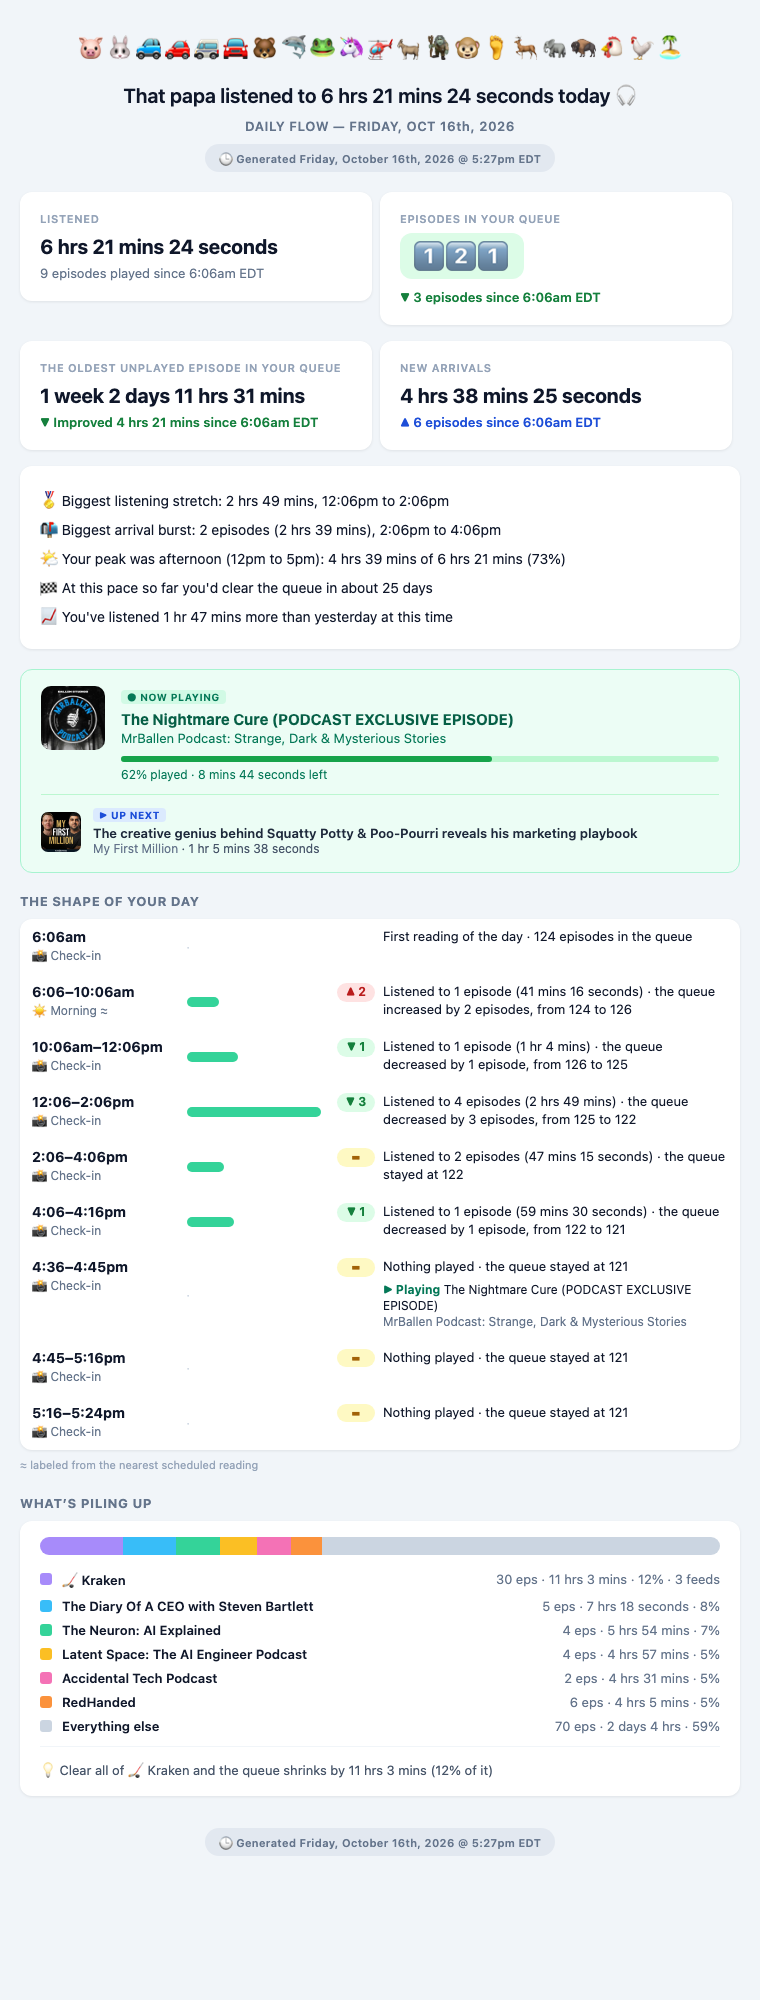
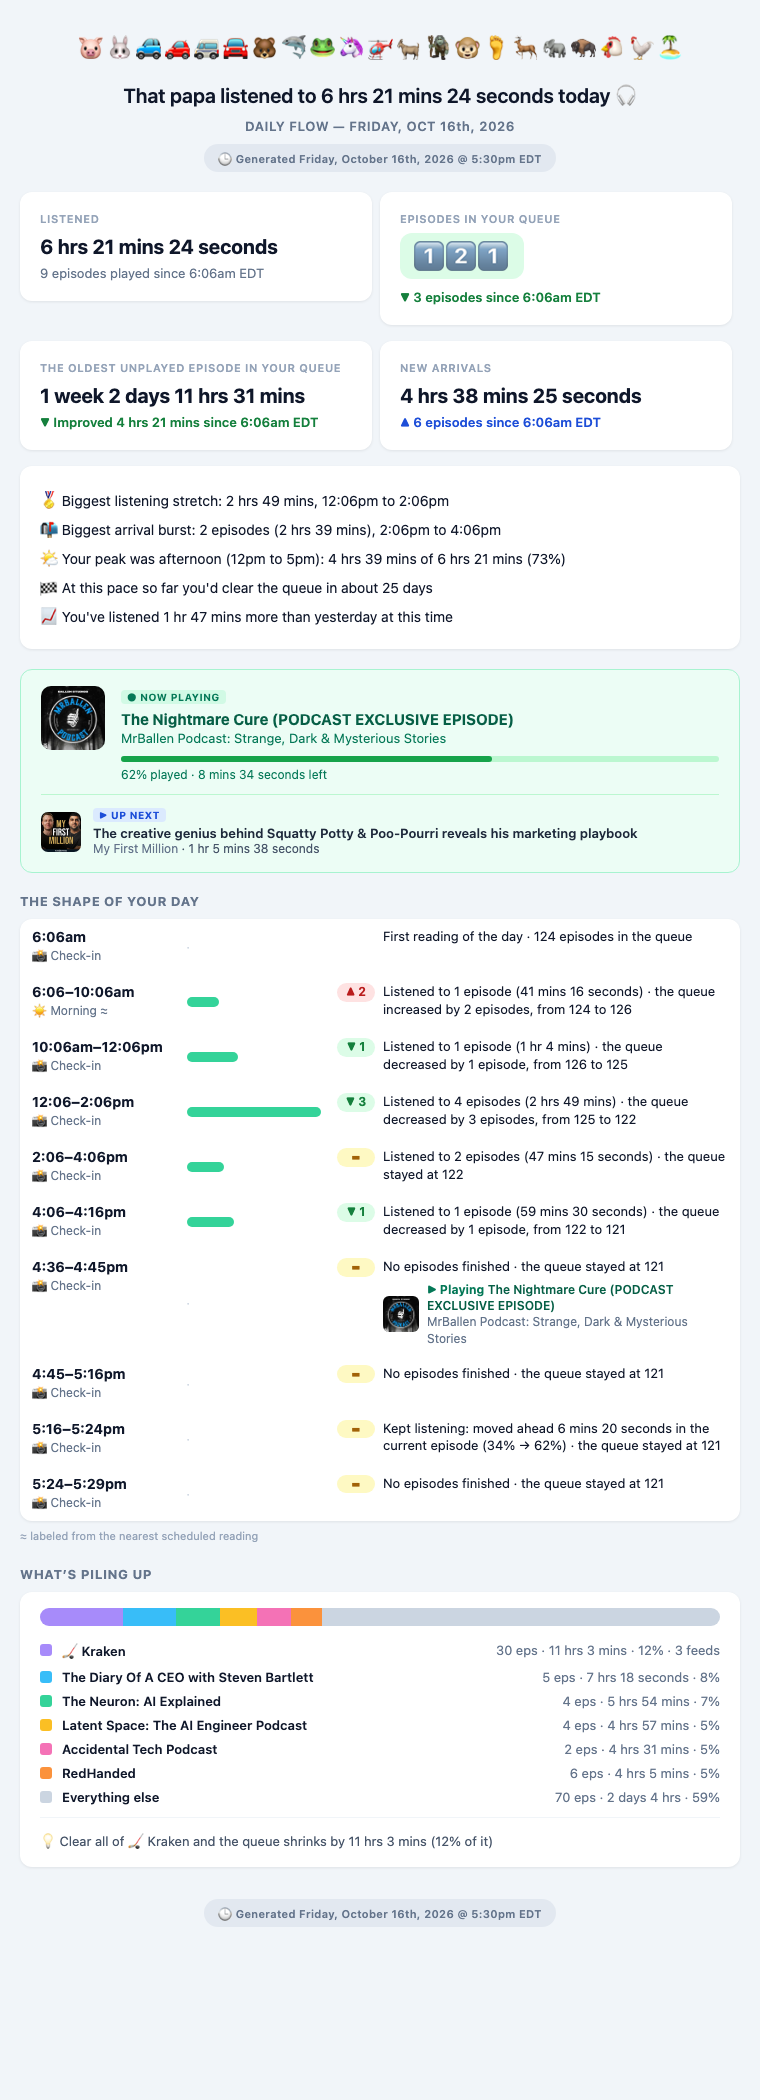
Flow web report: listening inside an unfinished episode counts, and artwork shows on the playing line
A reading with no finished episodes now says "No episodes finished" and, when
the same episode was playing at both readings with its position recorded, how
far you moved or went back through it. The playing line borrows artwork and
links from any later reading of the same episode.

diff --git a/flow.py b/flow.py
@@ -167,6 +167,23 @@ def arrivals_seconds(prev, cur):
     return max(0, (cur["queue_seconds"] - prev["queue_seconds"]) + cur["played_seconds"])
 
 
+def episode_progress(prev, cur):
+    """How far you moved through the episode that was playing at both readings,
+    or None when it wasn't the same episode or the position wasn't recorded.
+    Forward is progress; backward means you went back and replayed."""
+    a, b = prev.get("now_playing") or {}, cur.get("now_playing") or {}
+    if not a.get("title") or a.get("title") != b.get("title") or a.get("podcast") != b.get("podcast"):
+        return None
+    if a.get("elapsed_seconds") is None or b.get("elapsed_seconds") is None:
+        return None
+    dur_s = b.get("duration_seconds") or a.get("duration_seconds") or 0
+
+    def pct(x):
+        return round(100 * min(x, dur_s) / dur_s) if dur_s > 0 else None
+    return {"delta": b["elapsed_seconds"] - a["elapsed_seconds"],
+            "from_pct": pct(a["elapsed_seconds"]), "to_pct": pct(b["elapsed_seconds"])}
+
+
 def arrivals_count(prev, cur):
     """Estimated episodes that landed between two snapshots: the change in
     queue size plus the episodes played out of it."""
@@ -235,6 +252,7 @@ def summarize_day(history, day, tz=None):
     for sn in snaps:
         windows.append({
             "snap": sn,
+            "progress": episode_progress(prev, sn) if prev else None,
             "first": prev is None,
             "played": 0 if prev is None else sn["played_seconds"],
             "arrivals": arrivals_seconds(prev, sn) if prev else None,
@@ -548,7 +566,16 @@ def window_story(w):
         return f"First reading of the day · {episodes_phrase(q)} in the queue", None, None
     played, n = w["played"], sn["played_count"]
     qd, arr = w["queue_delta"], w.get("arrivals_count") or 0
-    head = f"Listened to {episodes_phrase(n)} ({dur_n(played)})" if played > 0 else "Nothing played"
+    if played > 0:
+        head = f"Listened to {episodes_phrase(n)} ({dur_n(played)})"
+    else:
+        head = "No episodes finished"
+        pr = w.get("progress")
+        if pr and abs(pr["delta"]) >= 30:
+            span = f" ({pr['from_pct']}% → {pr['to_pct']}%)" if pr["from_pct"] is not None else ""
+            head = (f"Kept listening: moved ahead {dur_n(pr['delta'])} in the current episode{span}"
+                    if pr["delta"] > 0 else
+                    f"Replayed: went back {dur_n(abs(pr['delta']))} in the current episode{span}")
     if qd < 0:
         tail, tone = f"the queue decreased by {episodes_phrase(abs(qd))}, from {q - qd} to {q}", "better"
     elif qd > 0:
@@ -980,6 +1007,14 @@ def timeline_html(s, tz=None):
     in_dash = False
     rows = ""
     last_playing = None
+    richest = {}
+    for w in s["windows"]:
+        np = w["snap"].get("now_playing")
+        if np and np.get("title"):
+            merged = richest.setdefault(np["title"], {})
+            for k, v in np.items():
+                if v is not None and k not in merged:
+                    merged[k] = v
     for w in s["windows"]:
         sn = w["snap"]
         shaded = in_dash or sn["label"] == "dash-end"
@@ -999,7 +1034,8 @@ def timeline_html(s, tz=None):
         when = clock(sn, tz) if w.get("first") else window_label(sn, tz)
         # show what was playing only when it changes, not on every row of one long episode
         np = sn.get("now_playing")
-        playing_html = mini_playing_html(np) if np and np.get("title") != last_playing else ""
+        playing_html = (mini_playing_html(dict(richest.get(np["title"], {}), **np))
+                        if np and np.get("title") != last_playing else "")
         if np:
             last_playing = np.get("title")
         rows += (

diff --git a/tests/test_flow.py b/tests/test_flow.py
@@ -619,6 +619,32 @@ class WindowStoryTests(unittest.TestCase):
         return {"snap": {"queue_count": q, "played_count": played_count}, "played": played,
                 "queue_delta": qd, "arrivals_count": arrivals, "first": False}
 
+    def test_listening_inside_an_unfinished_episode_is_not_nothing(self):
+        def with_np(local, elapsed):
+            sn = snap(local, "manual", 121, 300000, 900000, 0, 0)
+            sn["now_playing"] = {"title": "Long Episode", "podcast": "Show", "elapsed_seconds": elapsed,
+                                 "duration_seconds": 1000}
+            return sn
+        history = [with_np("2026-10-16T09:00", 200), with_np("2026-10-16T10:00", 600),
+                   with_np("2026-10-16T11:00", 100), with_np("2026-10-16T12:00", 110)]
+        s = flow.summarize_day(history, datetime.date(2026, 10, 16), NY)
+        stories = [flow.window_story(w)[0] for w in s["windows"][1:]]
+        self.assertEqual(stories[0], "Kept listening: moved ahead 6 mins 40 seconds in the current episode (20% → 60%) · the queue stayed at 121")
+        self.assertEqual(stories[1], "Replayed: went back 8 mins 20 seconds in the current episode (60% → 10%) · the queue stayed at 121")
+        self.assertTrue(stories[2].startswith("No episodes finished"))  # moved 10 seconds: not worth a sentence
+
+    def test_artwork_for_an_episode_is_borrowed_from_a_later_reading(self):
+        early = snap("2026-10-16T09:00", "manual")
+        early["now_playing"] = {"title": "Ep", "podcast": "Show"}               # recorded before artwork was saved
+        later = snap("2026-10-16T10:00", "manual")
+        later["now_playing"] = {"title": "Ep", "podcast": "Show", "artwork_url": "https://a/9.jpg",
+                                "episode_url": "https://e/9"}
+        history = [snap("2026-10-16T08:00", "morning"), early, later]
+        s = flow.summarize_day(history, datetime.date(2026, 10, 16), NY)
+        page = flow.render_day_html(s, NY)
+        row = page.split("The shape of your day")[1]
+        self.assertIn('src="https://a/9.jpg"', row.split("What&rsquo;s piling up")[0])
+
     def test_what_was_playing_is_shown_only_when_it_changes(self):
         playing = {"title": "Same Episode", "podcast": "Show", "artwork_url": "https://a/1.jpg"}
         history = [snap("2026-10-16T08:00", "morning"), snap("2026-10-16T09:00"), snap("2026-10-16T10:00"),
@@ -654,9 +680,9 @@ class WindowStoryTests(unittest.TestCase):
 
     def test_a_quiet_window(self):
         text, tone, _ = flow.window_story(self.window(0, 0, 0, 0, 121))
-        self.assertEqual(text, "Nothing played · the queue stayed at 121")
+        self.assertEqual(text, "No episodes finished · the queue stayed at 121")
         text, tone, _ = flow.window_story(self.window(0, 0, 3, 3, 124))
-        self.assertEqual(text, "Nothing played · the queue increased by 3 episodes, from 121 to 124")
+        self.assertEqual(text, "No episodes finished · the queue increased by 3 episodes, from 121 to 124")
 
     def test_timeline_shows_the_window_the_artwork_and_the_dash_in_words(self):
         history = [
